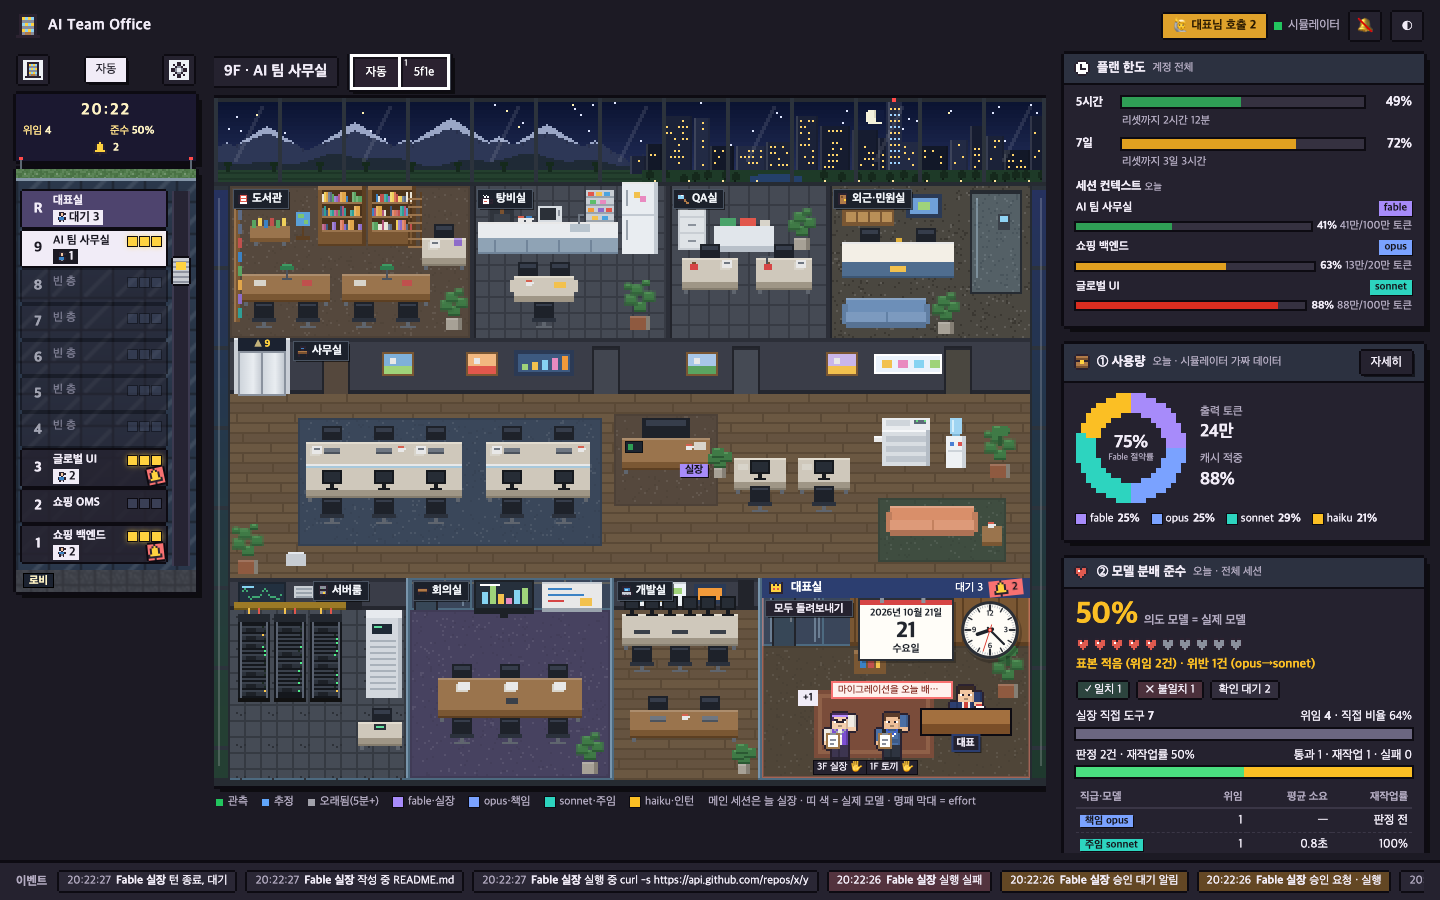
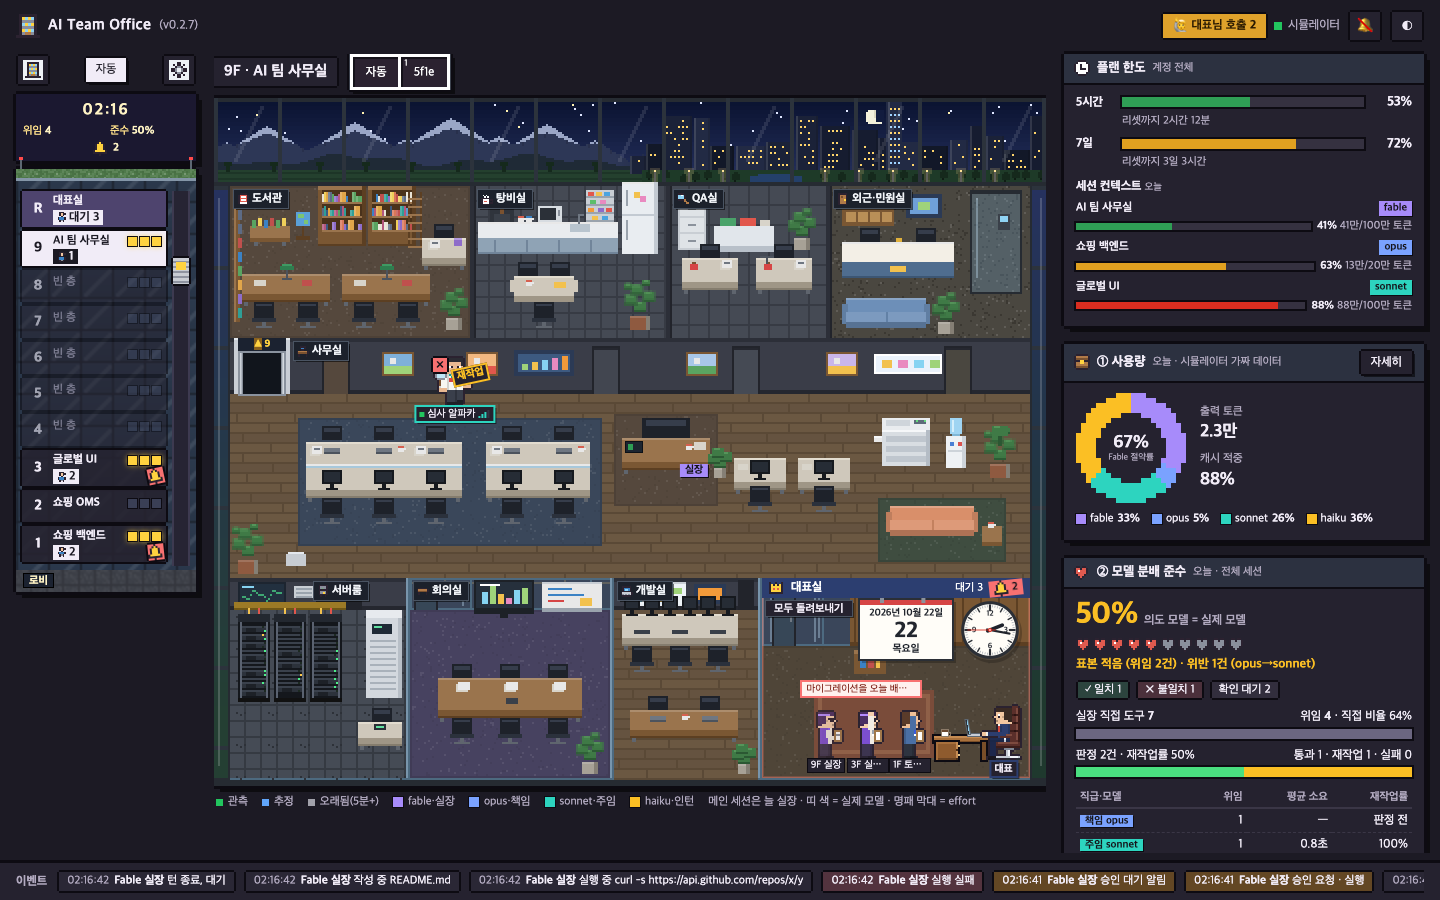
docs/feat: update & troubleshooting docs, office restart, stable hook paths, new screenshots (0.2.8)

diff --git a/plugins/ai-team/skills/ai-team-setup/SKILL.md b/plugins/ai-team/skills/ai-team-setup/SKILL.md
@@ -22,15 +22,26 @@ Steps:
 
 ## Optional extras (offer after step 5)
 
-After the rules block is handled (installed, already up to date, or declined), offer the two optional steps below. Show each one and apply it only on an explicit "yes" for that step. Skip silently on no. Both edit `~/.claude/settings.json`: back it up first (`cp ~/.claude/settings.json ~/.claude/settings.json.bak-ai-team`), then **merge** with a minimal edit (e.g. `jq`): add entries to existing arrays, never replace an array or touch unrelated keys. If the file does not exist, create it. Re-read and validate the JSON afterwards.
+After the rules block is handled (installed, already up to date, or declined), offer the two optional steps below. Show each one and apply it only on an explicit "yes" for that step. Skip silently on no. Both edit `~/.claude/settings.json`: back it up first (once per setup run, before its first settings change: `cp ~/.claude/settings.json ~/.claude/settings.json.bak-ai-team-$(date +%Y%m%d%H%M%S)`; later steps in the same run reuse that backup), then **merge** with a minimal edit (e.g. `jq`): add entries to existing arrays, never replace an array or touch unrelated keys. If the file does not exist, create it. Re-read and validate the JSON afterwards.
 
-**Resolve `${CLAUDE_PLUGIN_ROOT}` first.** Settings files do not expand `${CLAUDE_PLUGIN_ROOT}`, so before writing any command into `~/.claude/settings.json`, resolve it to the absolute plugin path (the directory containing this skill's `skills/`, `bin/` and `office/` folders) and write that absolute path. Note that a plugin update changes the install path, so re-run this setup after updating the plugin.
+**Pick a stable path `<ABS>` first.** Settings files do not expand `${CLAUDE_PLUGIN_ROOT}`, so every command written into `~/.claude/settings.json` needs an absolute path. `${CLAUDE_PLUGIN_ROOT}` itself resolves to a versioned cache folder (`~/.claude/plugins/cache/ai-team-office/ai-team/<version>/`), which an update replaces with a new folder, so hooks written with it would silently keep running the old version. Choose `<ABS>` in this order:
+
+1. **Stable (preferred):** the marketplace checkout `$HOME/.claude/plugins/marketplaces/ai-team-office/plugins/ai-team`, if it exists and contains `office/hooks/ceo-relay.sh` and `bin/statusline-tee`. `claude plugin marketplace update ai-team-office` updates this folder in place, so the path never changes and the hooks follow updates.
+2. **Fallback:** the resolved `${CLAUDE_PLUGIN_ROOT}` (the directory containing this skill's `skills/`, `bin/` and `office/` folders). Tell the user: "This path includes the plugin version; re-run `/ai-team:ai-team-setup` after updating the plugin."
+
+Write `<ABS>` into settings as the expanded absolute path (as before), and tell the user which of the two was used.
+
+**Existing entries on a versioned path (offer, then rewrite).** Before (a) and (b), look for commands in `~/.claude/settings.json` that contain `ceo-relay.sh` (in `hooks.PermissionRequest` / `hooks.PreToolUse`) or `statusline-tee` (in `statusLine.command`) and whose path contains `/plugins/cache/`. If any are found and `<ABS>` is the stable path:
+- Show each old command and the new one (only the path part changes: inside the quoted path token, replace only the part from its start through `/plugins/cache/ai-team-office/ai-team/<version>` with `<ABS>`, e.g. `"<old>/office/hooks/ceo-relay.sh"` → `"<ABS>/office/hooks/ceo-relay.sh"`; keep env prefixes such as `OFFICE_RELAY_QUESTION_WAIT_MS=60000`, quoting, `timeout` and `matcher` unchanged).
+- Ask "Rewrite these to the stable path so they follow plugin updates? (yes/no)". On yes: back up first (once per setup run, before its first settings change: `cp ~/.claude/settings.json ~/.claude/settings.json.bak-ai-team-$(date +%Y%m%d%H%M%S)`; later steps in the same run reuse that backup), change only those `command` strings in place (no new entries, no reordering, nothing else touched), then re-read and validate the JSON. Do **not** touch `~/.claude/logs/statusline/.previous-command` when rewriting `statusline-tee`.
+- Idempotent: commands already under `<ABS>` are left alone, and an entry rewritten here counts as installed for (a) / (b).
+- If `<ABS>` is the fallback (no marketplace checkout), do not rewrite; just say the entries point at a versioned folder and must be re-run after each update.
 
 ### (a) "대표실 relay" (CEO-room relay)
 
 Explain: lets you answer permission requests and `AskUserQuestion` questions from the dashboard (with a hand-back button). It steps aside instantly when no dashboard tab is open, answers only from the dashboard (never on its own), and `OFFICE_RELAY_DISABLE=1` turns it off. Needs `curl` and a running dashboard (`/ai-team:office start`).
 
-Show and, on yes, merge these two hook entries (idempotent: skip any entry whose command already contains `ceo-relay.sh`), with `<ABS>` the resolved plugin path:
+Show and, on yes, merge these two hook entries (idempotent: skip any entry whose command already contains `ceo-relay.sh`, whatever its path; a versioned path is handled by the rewrite above), with `<ABS>` the path chosen above:
 
 - `hooks.PermissionRequest` += `{"matcher":"*","hooks":[{"type":"command","command":"OFFICE_RELAY_QUESTION_WAIT_MS=60000 \"<ABS>/office/hooks/ceo-relay.sh\"","timeout":180}]}`
 - `hooks.PreToolUse` += `{"matcher":"AskUserQuestion","hooks":[{"type":"command","command":"OFFICE_RELAY_QUESTION_WAIT_MS=60000 \"<ABS>/office/hooks/ceo-relay.sh\"","timeout":180}]}`
@@ -40,7 +51,7 @@ Show and, on yes, merge these two hook entries (idempotent: skip any entry whose
 Explain: the dashboard shows 5-hour and 7-day plan limits and per-session context, which Claude Code only exposes through the statusline JSON. A small wrapper saves that JSON locally and then runs your previous statusline unchanged.
 
 On yes:
-1. Read `statusLine` from `~/.claude/settings.json`. If it already points at `<ABS>/bin/statusline-tee`, say "already installed" and stop.
+1. Read `statusLine` from `~/.claude/settings.json`. If its command already contains `statusline-tee` (any path), say "already installed" and stop (a versioned path is handled by the rewrite above; never wrap `statusline-tee` in itself).
 2. Save the previous command: write `statusLine.command` (empty file if there was none) to `~/.claude/logs/statusline/.previous-command` (create the directory). If a previous `statusLine` exists with other fields (e.g. `padding`), keep them.
 3. Make sure `<ABS>/bin/statusline-tee` is executable (`chmod +x`) and set `statusLine` to `{"type":"command","command":"<ABS>/bin/statusline-tee"}` (keeping other existing fields).
 4. Tell the user the wrapper prints exactly what the previous command printed, and prints nothing if there was none.
@@ -49,5 +60,5 @@ On yes:
 
 Offer this when the user asks to remove the extras. Back up `~/.claude/settings.json` first, then:
 
-- **Relay**: remove only the entries whose command contains `ceo-relay.sh` from `hooks.PermissionRequest` and `hooks.PreToolUse` (delete an array only if it becomes empty). Alternatively set `OFFICE_RELAY_DISABLE=1` to disable it without editing settings.
-- **Plan limits**: read `~/.claude/logs/statusline/.previous-command`; if non-empty, set `statusLine.command` back to it; if empty, remove the `statusLine` key. Then delete `.previous-command`. Captured JSON files in `~/.claude/logs/statusline/` can be deleted too.
+- **Relay**: remove only the entries whose command contains `ceo-relay.sh` (whatever its path: stable, versioned cache or a local checkout) from `hooks.PermissionRequest` and `hooks.PreToolUse` (delete an array only if it becomes empty). Alternatively set `OFFICE_RELAY_DISABLE=1` to disable it without editing settings.
+- **Plan limits** (only if `statusLine.command` contains `statusline-tee`, whatever its path): read `~/.claude/logs/statusline/.previous-command`; if non-empty, set `statusLine.command` back to it; if empty, remove the `statusLine` key. Then delete `.previous-command`. Captured JSON files in `~/.claude/logs/statusline/` can be deleted too.

diff --git a/README.md b/README.md
@@ -47,6 +47,25 @@ Then, inside Claude Code:
 
 1. `/ai-team:ai-team-setup` - shows the operating rules and, only if you say yes, appends them to `~/.claude/CLAUDE.md`.
 2. `/ai-team:office` - starts the dashboard and opens http://127.0.0.1:4747.
+3. Optional: run `/ai-team:ai-team-setup` again and say yes to the CEO-room relay to answer approvals from the dashboard. **Keep the dashboard tab open**: the relay only waits while a tab is open (a background tab is fine for permission prompts; questions need the tab visible).
+
+## Update
+
+```bash
+claude plugin marketplace update ai-team-office && claude plugin update ai-team@ai-team-office
+```
+
+Then **start a new Claude Code session** (a session opened before the update still points at the old plugin folder) and run `/ai-team:office restart`, or run `~/.claude/plugins/marketplaces/ai-team-office/plugins/ai-team/office/start.sh restart` from any shell. It stops the running dashboard (even one started by the previous version) and starts the new one. Open tabs reload themselves, and the header shows `(vX.Y.Z)` so you can see which version is running. Sessions started before the update keep their old hooks until you restart them.
+
+If you installed the relay or statusline wrapper with an older setup, run `/ai-team:ai-team-setup` once more: it offers to move them to a version-independent path so they follow future updates.
+
+## Troubleshooting
+
+- **No approve/deny buttons in the CEO room (대표실).** The relay is opt-in: install it with `/ai-team:ai-team-setup`. A dashboard tab at http://127.0.0.1:4747 must be open (background is fine for permission prompts; questions need it visible). Check `curl -s http://127.0.0.1:4747/healthz` (`viewers`, `hiddenViewers`, `pending`), and `~/.claude/ai-team-office/run/server.log` for `not relayed: <reason>`.
+- **Header shows an old version.** The old server is still running: `/ai-team:office restart`.
+- **Dashboard does not start.** Check `node --version` (needs >= 20) and `/ai-team:office status`; the log is `~/.claude/ai-team-office/run/server.log`.
+- **Report text is cut short.** That session started before an update and still runs the old hook: restart the session.
+- **Turn the relay off.** Remove it with the Undo step of `/ai-team:ai-team-setup`, or `export OFFICE_RELAY_DISABLE=1` in your shell before starting `claude` (applies to sessions started afterwards). The terminal prompts then work as before.
 
 ## Routing table
 
@@ -133,6 +152,25 @@ Claude Code 안에서:
 
 1. `/ai-team:ai-team-setup` - 운영 규칙을 보여주고, 동의(yes)할 때만 `~/.claude/CLAUDE.md` 에 추가합니다.
 2. `/ai-team:office` - 대시보드를 켜고 http://127.0.0.1:4747 을 엽니다.
+3. 선택: `/ai-team:ai-team-setup` 을 한 번 더 실행해 대표실 relay 에 yes 하면 대시보드에서 승인할 수 있어요. **대시보드 탭은 열어 두세요**: 탭이 열려 있을 때만 relay 가 기다립니다(권한 요청은 백그라운드 탭이어도 되고, 질문은 탭이 보여야 해요).
+
+### 업데이트
+
+```bash
+claude plugin marketplace update ai-team-office && claude plugin update ai-team@ai-team-office
+```
+
+그다음 **새 Claude Code 세션을 열어**(업데이트 전에 연 세션은 예전 플러그인 폴더를 가리켜요) `/ai-team:office restart` 를 실행하거나, 아무 셸에서 `~/.claude/plugins/marketplaces/ai-team-office/plugins/ai-team/office/start.sh restart` 를 실행하세요. 실행 중인 대시보드를(이전 버전이 띄운 것이어도) 끄고 새 버전으로 켭니다. 열린 탭은 스스로 새로고침되고, 헤더의 `(vX.Y.Z)` 로 지금 돌고 있는 버전을 확인할 수 있어요. 업데이트 전에 시작한 세션은 재시작할 때까지 예전 훅을 씁니다.
+
+예전 setup 으로 relay·상태줄 래퍼를 설치했다면 `/ai-team:ai-team-setup` 을 한 번 더 실행하세요. 버전과 무관한 경로로 옮길지 물어보고, 그 뒤로는 업데이트를 자동으로 따라갑니다.
+
+### 문제 해결
+
+- **대표실에 승인/거부 버튼이 안 보여요.** relay 는 선택 설치예요: `/ai-team:ai-team-setup` 으로 설치하세요. http://127.0.0.1:4747 대시보드 탭이 열려 있어야 해요(권한 요청은 백그라운드여도 되고, 질문은 보여야 해요). `curl -s http://127.0.0.1:4747/healthz` 로 `viewers`·`hiddenViewers`·`pending` 을 보고, `~/.claude/ai-team-office/run/server.log` 에서 `not relayed: <이유>` 를 찾아보세요.
+- **헤더 버전이 예전 그대로예요.** 예전 서버가 아직 돌고 있어요: `/ai-team:office restart`.
+- **대시보드가 안 켜져요.** `node --version`(20 이상 필요)과 `/ai-team:office status` 를 확인하세요. 로그는 `~/.claude/ai-team-office/run/server.log`.
+- **보고 내용이 중간에 잘려요.** 업데이트 전에 시작한 세션이라 예전 훅이 돌고 있어요: 세션을 재시작하세요.
+- **relay 끄기.** `/ai-team:ai-team-setup` 의 Undo 로 지우거나, `claude` 를 시작하기 전에 셸에서 `export OFFICE_RELAY_DISABLE=1` 하세요(그 뒤에 시작한 세션부터 적용). 터미널 프롬프트는 원래대로 동작해요.
 
 ### 분배표
 
@@ -152,7 +190,7 @@ Claude Code 안에서:
 
 - 로컬 전용: `127.0.0.1` 에만 바인딩하며 외부로 아무것도 보내지 않습니다.
 - 모든 요청에 Host/Origin 검사(DNS rebinding·교차 사이트 차단), POST 는 `application/json` 필수.
-- 뷰어 규칙: 대시보드 탭이 실제로 열려 있을 때만 대시보드 답이 유효하고, 아니면 relay 는 즉시 비켜 터미널 프롬프트가 그대로 동작합니다.
+- 뷰어 규칙: 대시보드 탭이 실제로 열려 있을 때만 relay 가 요청을 붙잡습니다(권한 요청은 백그라운드 탭도 됨 — 터미널 프롬프트가 함께 떠 있으므로; 질문은 훅이 끝날 때까지 터미널을 막으므로 보이는 탭만). 아니면 즉시 비켜 터미널 프롬프트가 그대로 동작합니다.
 - 토큰 소모 없음: `~/.claude/logs/` 의 로컬 로그만 읽습니다.
 - `--redact` 로 프롬프트·경로·명령 인자를 가릴 수 있습니다.
 

diff --git a/plugins/ai-team/skills/office/SKILL.md b/plugins/ai-team/skills/office/SKILL.md
@@ -1,7 +1,7 @@
 ---
 name: office
-description: Start, stop, check or open the AI Team pixel office dashboard (local only, http://127.0.0.1:4747). Run as /ai-team:office [start|stop|status|open].
-argument-hint: "[start|stop|status|open]"
+description: Start, stop, restart, check or open the AI Team pixel office dashboard (local only, http://127.0.0.1:4747). Run as /ai-team:office [start|stop|restart|status|open]; use restart after a plugin update.
+argument-hint: "[start|stop|restart|status|open]"
 disable-model-invocation: true
 allowed-tools: Bash(${CLAUDE_PLUGIN_ROOT}/office/start.sh *)
 ---
@@ -12,7 +12,8 @@ Argument: `$ARGUMENTS` (default `start` when empty). The dashboard is local only
 
 - `start`: run `${CLAUDE_PLUGIN_ROOT}/office/start.sh start`, then open http://127.0.0.1:4747 in the browser (`open` on macOS, `xdg-open` on Linux).
 - `stop`: run `${CLAUDE_PLUGIN_ROOT}/office/start.sh stop`.
-- `status`: run `${CLAUDE_PLUGIN_ROOT}/office/start.sh status` and report running or not.
+- `status`: run `${CLAUDE_PLUGIN_ROOT}/office/start.sh status` and report running or not. If it says another version folder is running, suggest `/ai-team:office restart`.
+- `restart`: run `${CLAUDE_PLUGIN_ROOT}/office/start.sh restart`. It stops the running dashboard even if it was started by an older plugin version, then starts this version. Open tabs reload by themselves; the header shows `(vX.Y.Z)` of the running server. Use this after `claude plugin update`, from a session started after the update: an older session's `${CLAUDE_PLUGIN_ROOT}` still points at the previous version, so restarting from it would bring the old version back. If `status` here reports another version folder and this folder's `../.claude-plugin/plugin.json` version is the older one, say so and suggest a new session instead of restarting.
 - `open`: only open http://127.0.0.1:4747 (start first if status says not running).
 
 If `${CLAUDE_PLUGIN_ROOT}/office/start.sh` does not exist, tell the user the dashboard files are not installed in this version and stop. Report the result in 2 lines.

diff --git a/plugins/ai-team/office/README.md b/plugins/ai-team/office/README.md
@@ -145,7 +145,7 @@ Claude Code 가 사람에게 묻는 두 가지 — 권한 확인(`PermissionRequ
 
 ### 설치 (사용자가 직접, `~/.claude/settings.json`)
 
-`<office>` 는 이 폴더의 절대 경로. 훅 `timeout`(초) 은 **대기 시간/1000 + 5 이상**이어야 한다 — 스크립트의 curl `--max-time` 이 그 값이라 더 짧으면 Claude Code 가 훅을 먼저 죽이고, 그 뒤 대표실 답은 410 으로 거절된다. 기본 `OFFICE_RELAY_WAIT_MS=170000` → max-time 175 → `timeout` ≥ 175(아래 예시 180), 최대 540000 → ≥ 545, 질문용 60000 → ≥ 65. `OFFICE_RELAY_WAIT_MS` 는 1~7자리 10진수만 받는다(`060000` = 60000, 앞 0 은 8진수가 아님; 그 외·더 긴 값은 기본값). 기존 `PermissionRequest`/`PreToolUse` 배열이 있으면 항목을 **추가**한다.
+`<office>` 는 이 폴더의 절대 경로. 플러그인으로 설치했다면 버전이 들어간 캐시 폴더(`~/.claude/plugins/cache/…/<version>/`) 대신 마켓플레이스 체크아웃 `~/.claude/plugins/marketplaces/ai-team-office/plugins/ai-team/office` 를 쓴다 — `claude plugin marketplace update` 가 그 자리에서 갱신하므로 업데이트 뒤에도 새 훅이 돈다(`/ai-team:ai-team-setup` 이 이렇게 써 준다). 훅 `timeout`(초) 은 **대기 시간/1000 + 5 이상**이어야 한다 — 스크립트의 curl `--max-time` 이 그 값이라 더 짧으면 Claude Code 가 훅을 먼저 죽이고, 그 뒤 대표실 답은 410 으로 거절된다. 기본 `OFFICE_RELAY_WAIT_MS=170000` → max-time 175 → `timeout` ≥ 175(아래 예시 180), 최대 540000 → ≥ 545, 질문용 60000 → ≥ 65. `OFFICE_RELAY_WAIT_MS` 는 1~7자리 10진수만 받는다(`060000` = 60000, 앞 0 은 8진수가 아님; 그 외·더 긴 값은 기본값). 기존 `PermissionRequest`/`PreToolUse` 배열이 있으면 항목을 **추가**한다.
 
 ```json
 {

diff --git a/CHANGELOG.md b/CHANGELOG.md
@@ -50,3 +50,9 @@
 - Inline scripts that write files (`python3 - <<EOF … open(p,'w')`, `node -e … writeFileSync`) count as coding (개발실)
 - CEO room: side-view drawer pedestal facing the 대표; newcomers knock ("똑똑") at the door before queuing (not on reload, skipped under reduced motion)
 - Hover card stays open while the pointer is on the card (300ms grace); pressing or focusing inside pins it, so 승인/거부 is one click
+
+## 0.2.8 — 2026-10-22
+- README (EN/KO): Update and Troubleshooting sections; keep the dashboard tab open
+- `/ai-team:office restart`; `start.sh` stops a dashboard started by another plugin version (node process only), so restart after an update runs the new version
+- Setup writes hooks via the version-independent marketplace path and offers to move existing versioned-cache hooks there (timestamped backup)
+- New screenshots (sim data)
